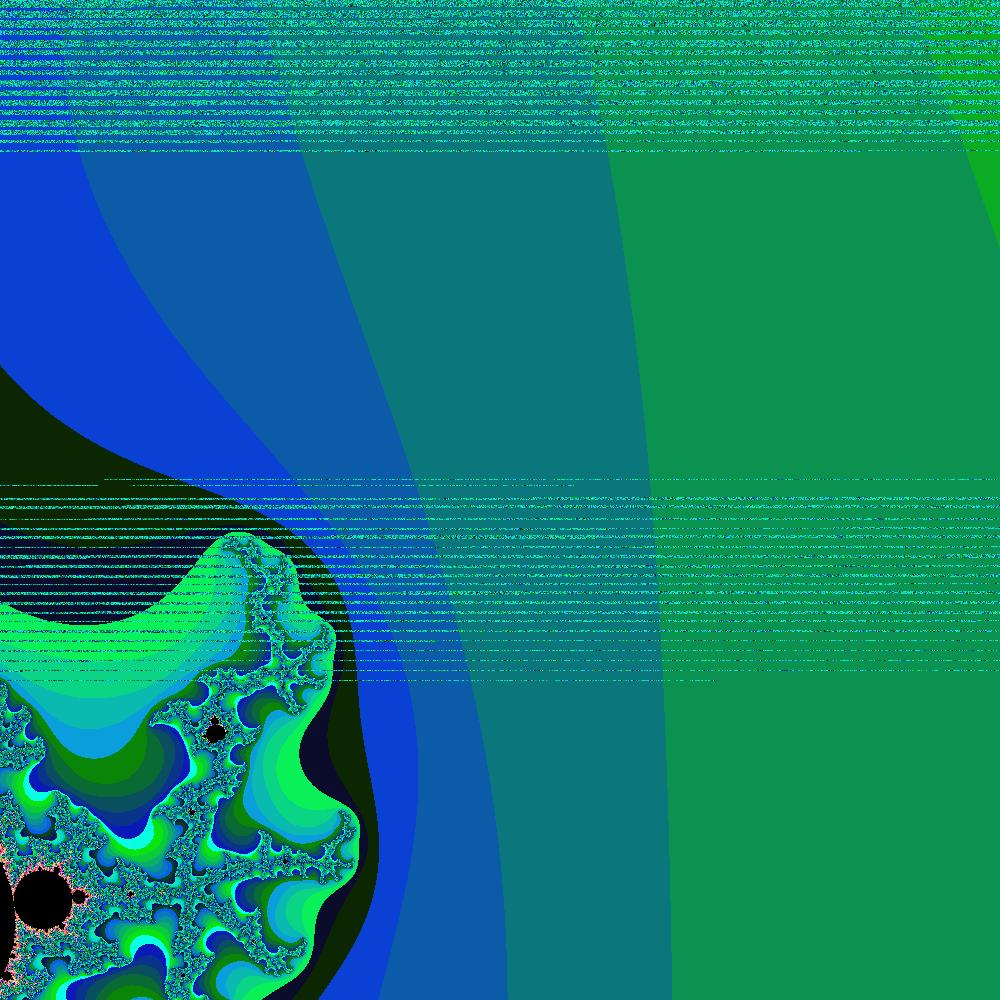
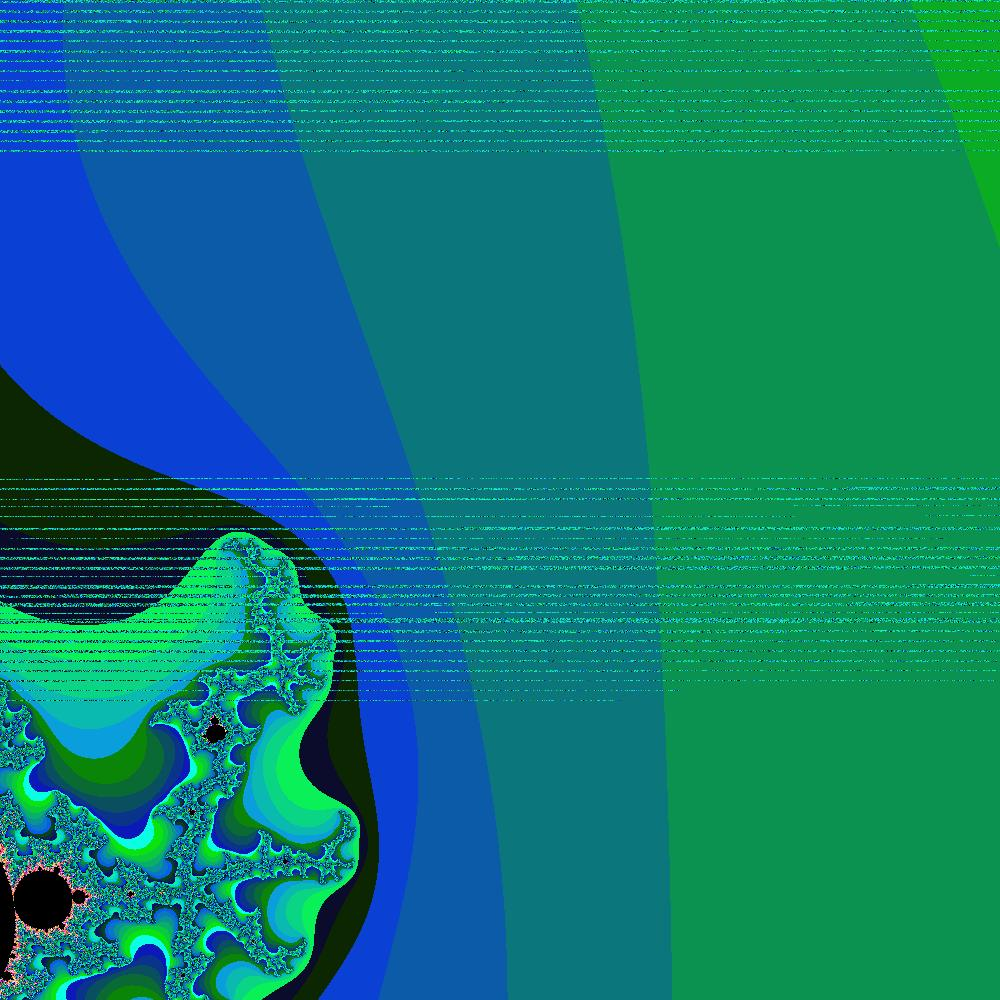
resize is working on julia because gg vincent + refacto

Changed region(s): [[0.0, 0.465, 1.0, 0.713], [0.0, 0.0, 1.0, 0.155]]

diff --git a/src/main/resources/static/js/javascript.js b/src/main/resources/static/js/javascript.js
@@ -22,7 +22,14 @@ function getImage(direction) {
 function setSides() {
     verticalSide = document.getElementById('vertical').value;
     horizontalSide = document.getElementById('horizontal').value;
-    return fetch('/setSides'+'?verticalSide='+verticalSide+'&horizontalSide='+horizontalSide)
-    .then(response => response.blob())
-    .then(data => document.getElementById("FractalImage").src=URL.createObjectURL(data));
+    if(isJulia) {
+     return fetch('/setSides'+'?verticalSide='+verticalSide+'&horizontalSide='+horizontalSide+'&type=julia')
+        .then(response => response.blob())
+        .then(data => document.getElementById("FractalImage").src=URL.createObjectURL(data));
+    }
+    else {
+    return fetch('/setSides'+'?verticalSide='+verticalSide+'&horizontalSide='+horizontalSide+'&type=mandel')
+        .then(response => response.blob())
+        .then(data => document.getElementById("FractalImage").src=URL.createObjectURL(data));
+        }
 }

diff --git a/src/main/java/org/example/Julia.java b/src/main/java/org/example/Julia.java
@@ -28,8 +28,8 @@ public class Julia extends Fractal
     @Override
     void draw(int x, int y, int fractionId, BufferedImage image) {
         // Taking the Image WIDTH and HEIGHT variables. Increasing or decreasing the value will affect computation time.
-        double WIDTH = 1000;
-        double HEIGHT = 1000;
+        double WIDTH = getHorizontalSide();
+        double HEIGHT = getVerticalSide();
         System.out.println("it is ");
 
         // Setting the Saturation of every pixel to maximum
